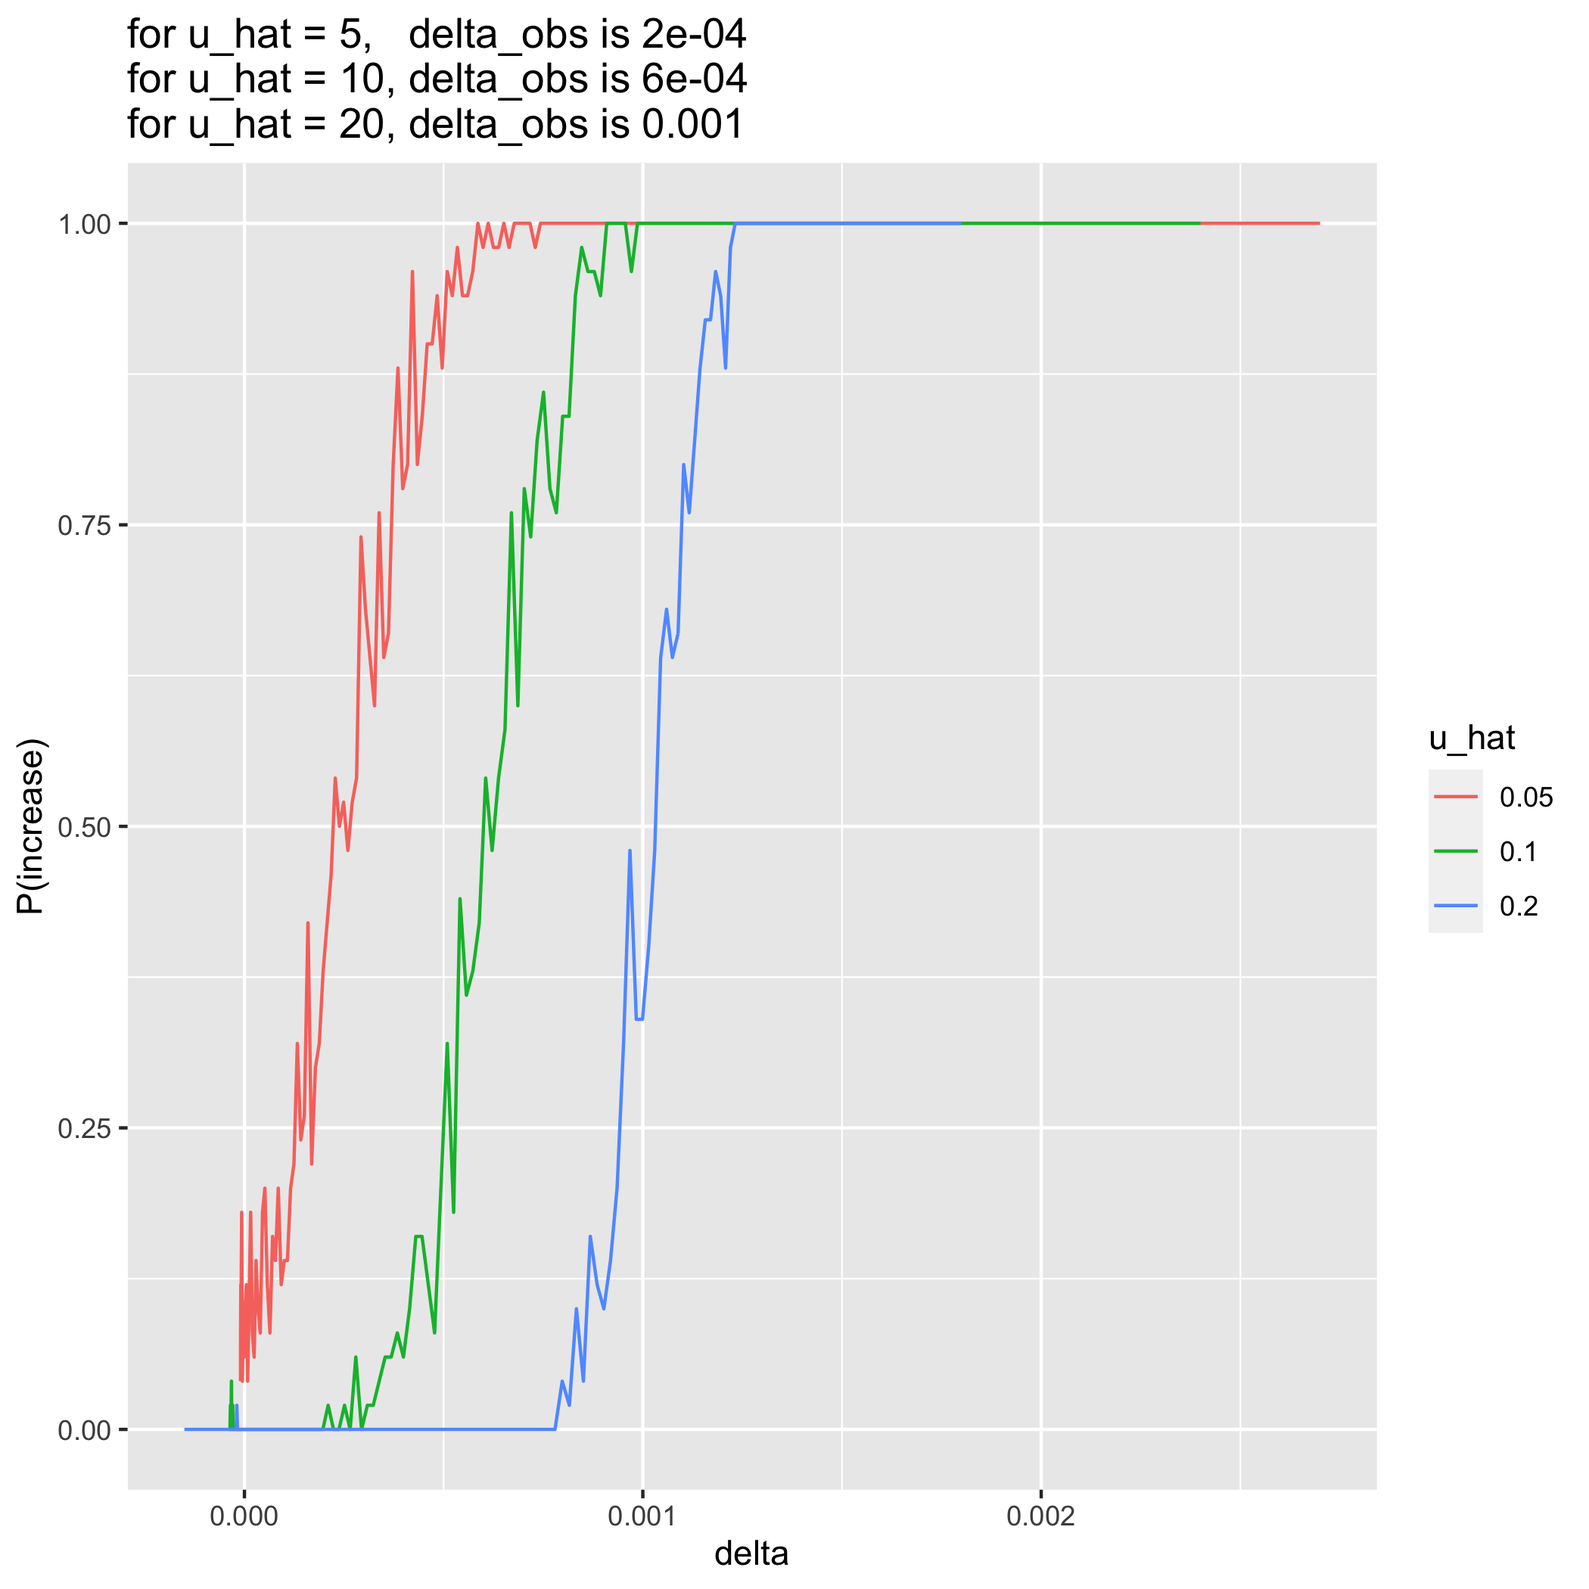
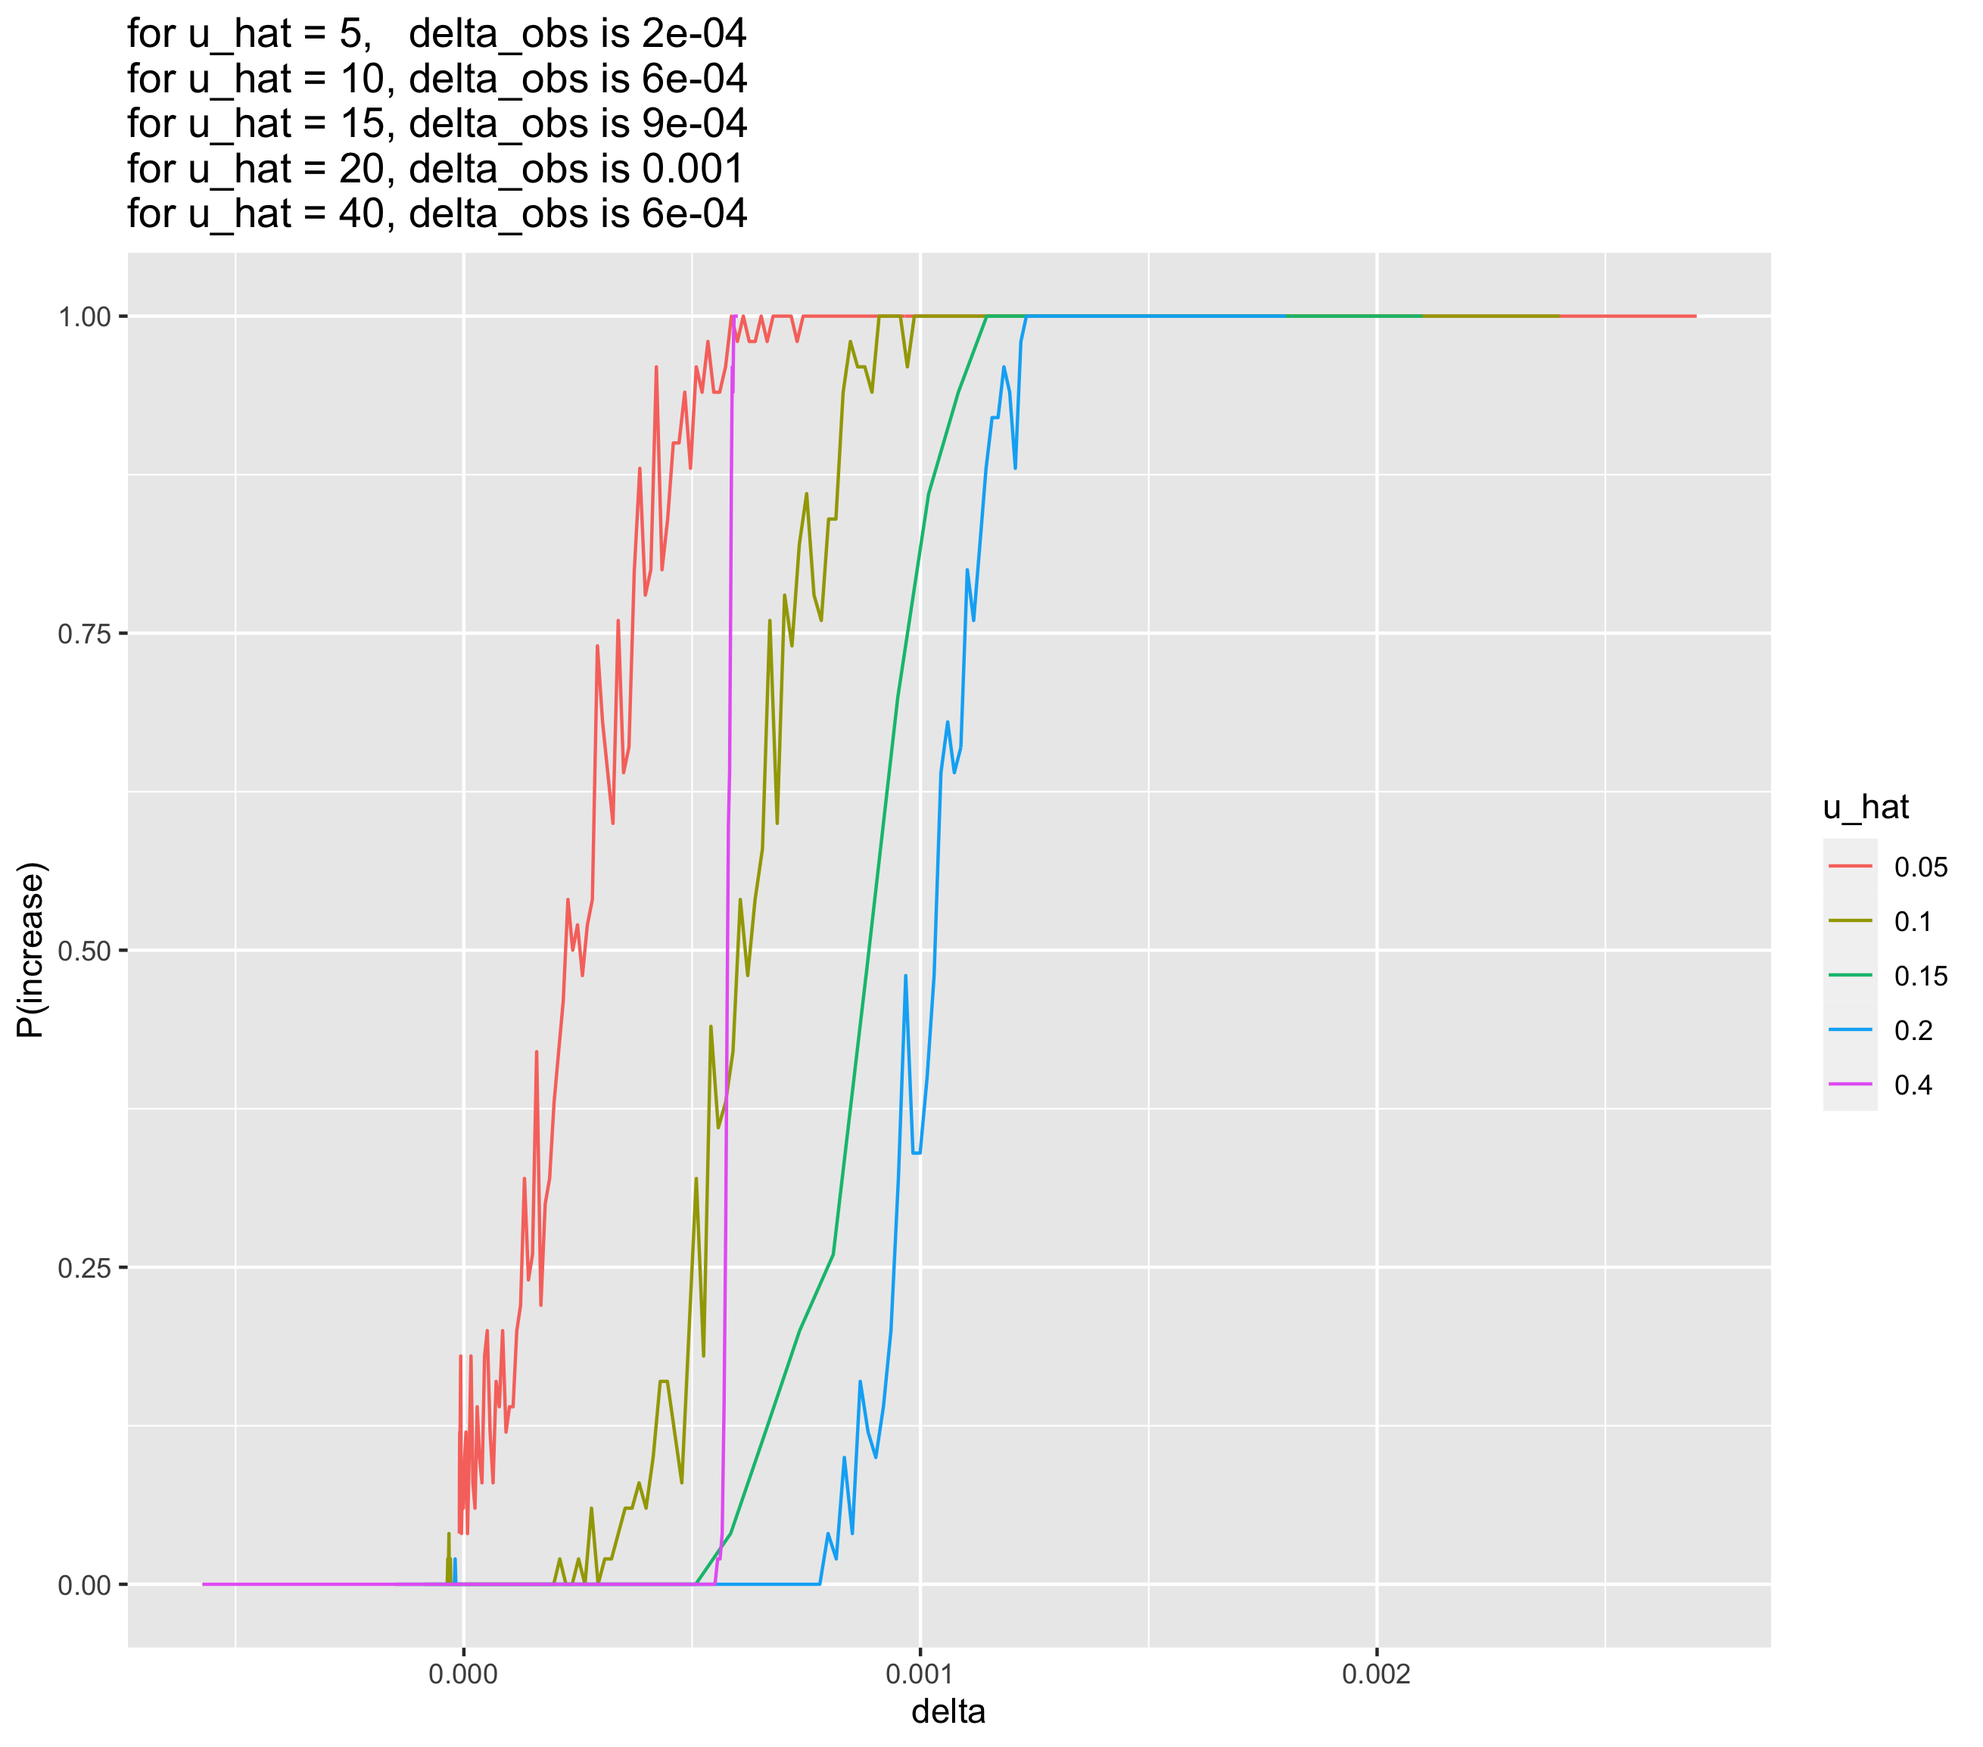
comparison

diff --git a/cluster/u_hat_comparisons/april12-uhat_comparison.md b/cluster/u_hat_comparisons/april12-uhat_comparison.md
@@ -1,4 +1,4 @@
-uhat=40, 20, 10, and 5% comparison after debugging + wt gens
+uhat=40, 20, 15, 10, and 5% comparison after debugging + wt gens
 ================
 Isabel Kim
 4/12/2022
@@ -7,84 +7,30 @@ Isabel Kim
 
 ``` r
 library(tidyverse)
-```
-
-    ## ── Attaching packages ─────────────────────────────────────── tidyverse 1.3.1 ──
-
-    ## ✓ ggplot2 3.3.5     ✓ purrr   0.3.4
-    ## ✓ tibble  3.1.6     ✓ dplyr   1.0.8
-    ## ✓ tidyr   1.2.0     ✓ stringr 1.4.0
-    ## ✓ readr   2.1.2     ✓ forcats 0.5.1
-
-    ## ── Conflicts ────────────────────────────────────────── tidyverse_conflicts() ──
-    ## x dplyr::filter() masks stats::filter()
-    ## x dplyr::lag()    masks stats::lag()
-
-``` r
 source("/Users/isabelkim/Desktop/year2/underdominance/reaction-diffusion/cluster/plotting_functions.R")
 
 summary_u40 = read_csv("/Users/isabelkim/Desktop/year2/underdominance/reaction-diffusion/cluster/u_hat=0.4_run/csvs/summary_april12_full_range_uhat40.csv")
-```
-
-    ## Rows: 150 Columns: 6
-
-    ## ── Column specification ────────────────────────────────────────────────────────
-    ## Delimiter: ","
-    ## dbl (6): a, sigma, k, u_hat, delta, p_increase
-    ## 
-    ## ℹ Use `spec()` to retrieve the full column specification for this data.
-    ## ℹ Specify the column types or set `show_col_types = FALSE` to quiet this message.
-
-``` r
 obs_vs_pred_u40 = get_a_pred_and_a_obs(summary_u40)
 
 summary_u20 = read_csv("/Users/isabelkim/Desktop/year2/underdominance/reaction-diffusion/cluster/u_hat=0.2_run/csvs/summary_april11_full_range_uhat20.csv")
-```
-
-    ## Rows: 150 Columns: 6
-    ## ── Column specification ────────────────────────────────────────────────────────
-    ## Delimiter: ","
-    ## dbl (6): a, sigma, k, u_hat, delta, p_increase
-    ## 
-    ## ℹ Use `spec()` to retrieve the full column specification for this data.
-    ## ℹ Specify the column types or set `show_col_types = FALSE` to quiet this message.
-
-``` r
 obs_vs_pred_u20 = get_a_pred_and_a_obs(summary_u20)
 
+summary_u15 = read_csv("/Users/isabelkim/Desktop/year2/underdominance/reaction-diffusion/cluster/u_hat=0.15_run/csvs/summary_april13_full_range_uhat15.csv")
+obs_vs_pred_u15 = get_a_pred_and_a_obs(summary_u15)
+# adjust
+obs_vs_pred_u15$a_pred = 0.006154545
+obs_vs_pred_u15$delta_pred = -0.000017000
+obs_vs_pred_u15$index_of_pred = 7
+
 summary_u10 = read_csv("/Users/isabelkim/Desktop/year2/underdominance/reaction-diffusion/cluster/u_hat=0.1_run/csvs/summary_april11_full_range_uhat10.csv")
-```
-
-    ## Rows: 150 Columns: 6
-    ## ── Column specification ────────────────────────────────────────────────────────
-    ## Delimiter: ","
-    ## dbl (6): a, sigma, k, u_hat, delta, p_increase
-    ## 
-    ## ℹ Use `spec()` to retrieve the full column specification for this data.
-    ## ℹ Specify the column types or set `show_col_types = FALSE` to quiet this message.
-
-``` r
 obs_vs_pred_u10 = get_a_pred_and_a_obs(summary_u10)
 
 summary_u5 = read_csv("/Users/isabelkim/Desktop/year2/underdominance/reaction-diffusion/cluster/u_hat=0.05_run/csvs/summary_april11_full_range_uhat5.csv")
-```
-
-    ## Rows: 150 Columns: 6
-    ## ── Column specification ────────────────────────────────────────────────────────
-    ## Delimiter: ","
-    ## dbl (6): a, sigma, k, u_hat, delta, p_increase
-    ## 
-    ## ℹ Use `spec()` to retrieve the full column specification for this data.
-    ## ℹ Specify the column types or set `show_col_types = FALSE` to quiet this message.
-
-``` r
-#summary_u5$p_increase[150] = 1.0
-#write_csv(x = summary_u5, file = "/Users/isabelkim/Desktop/year2/underdominance/reaction-diffusion/cluster/u_hat=0.05_run/csvs/summary_april11_full_range_uhat5.csv")
 obs_vs_pred_u5 = get_a_pred_and_a_obs(summary_u5)
 
-compiled = rbind(summary_u5,summary_u10, summary_u20,summary_u40)
+compiled = rbind(summary_u5,summary_u10,summary_u15,summary_u20,summary_u40)
 compiled$u_hat = as.character(compiled$u_hat)
-#View(compiled)
+View(compiled)
 ```
 
 ## Compare a vs P(increase) graphs
@@ -95,20 +41,27 @@ compiled_plot = ggplot(data = compiled, aes(x = a, y = p_increase, color = u_hat
   xlab("a") +
   ylab("P(increase)") +
   xlim(0, 0.1) +
-  geom_vline(xintercept = obs_vs_pred_u5$a_pred, color = "coral1") +
-  geom_vline(xintercept = obs_vs_pred_u10$a_pred, color = "green3") +
-  geom_vline(xintercept = obs_vs_pred_u20$a_pred, color = "turquoise") +
-  geom_vline(xintercept = obs_vs_pred_u40$a_pred, color = "purple") +
   labs(title = paste0("for u_hat = 5,   a_pred is ", round(obs_vs_pred_u5$a_pred, 4),
                       " and a_obs is ", round(obs_vs_pred_u5$a_obs, 4),
                       "\nfor u_hat = 10, a_pred is ", round(obs_vs_pred_u10$a_pred,4), 
-                      " and a_obs is ", round(obs_vs_pred_u10$a_obs, 4), 
+                      " and a_obs is ", round(obs_vs_pred_u10$a_obs, 4),
+                      "\nfor u_hat = 15, a_pred is ", round(obs_vs_pred_u15$a_pred,4),
+                      " and a_obs is ", round(obs_vs_pred_u15$a_obs, 4),
                       "\nfor u_hat = 20, a_pred is ", round(obs_vs_pred_u20$a_pred,4), 
                       " and a_obs is ", round(obs_vs_pred_u20$a_obs,4),
                       "\nfor u_hat = 40, a_pred is ",round(obs_vs_pred_u40$a_pred,4),
                       " and a_obs is ", round(obs_vs_pred_u40$a_obs,4)))
+#ggsave(filename = "/Users/isabelkim/Desktop/year2/underdominance/reaction-diffusion/cluster/u_hat_comparisons/april12-a_vs_p_uhat_5_10_15_20_40_no_lines.png",plot = compiled_plot)
 
-#ggsave(filename = "/Users/isabelkim/Desktop/year2/underdominance/reaction-diffusion/cluster/u_hat_comparisons/april12-a_vs_p_uhat_5_10_20_40.png",plot = compiled_plot)
+
+p = compiled_plot +
+  geom_vline(xintercept = obs_vs_pred_u5$a_pred, color = "coral1") +
+  geom_vline(xintercept = obs_vs_pred_u10$a_pred, color = "yellow4") +
+  geom_vline(xintercept = obs_vs_pred_u15$a_pred, color = "seagreen3") +
+  geom_vline(xintercept = obs_vs_pred_u20$a_pred, color = "deepskyblue2") +
+  geom_vline(xintercept = obs_vs_pred_u40$a_pred, color = "magenta2")
+
+#ggsave(filename = "/Users/isabelkim/Desktop/year2/underdominance/reaction-diffusion/cluster/u_hat_comparisons/april12-a_vs_p_uhat_5_10_15_20_40_with_lines.png",plot = p)
 ```
 
 ### just uhat=5, 10, and 20:
@@ -127,7 +80,22 @@ knitr::include_graphics("../../cluster/u_hat_comparisons/april12-a_vs_p_uhat_5_1
 
 ![](../../cluster/u_hat_comparisons/april12-a_vs_p_uhat_5_10_20_40.png)<!-- -->
 
-## Compare delta vs P(increase) graphs
+### uhat = 5, 10, 15, 20, 40 without any prediction lines
+
+``` r
+knitr::include_graphics("../../cluster/u_hat_comparisons/april12-a_vs_p_uhat_5_10_15_20_40_no_lines.png")
+```
+
+![](../../cluster/u_hat_comparisons/april12-a_vs_p_uhat_5_10_15_20_40_no_lines.png)<!-- -->
+### uhat = 5, 10, 15, 20, 40 *with* a_pred prediction lines
+
+``` r
+knitr::include_graphics("../../cluster/u_hat_comparisons/april12-a_vs_p_uhat_5_10_15_20_40_with_lines.png")
+```
+
+![](../../cluster/u_hat_comparisons/april12-a_vs_p_uhat_5_10_15_20_40_with_lines.png)<!-- -->
+
+## Compare delta vs P(increase) graphs for uhat = 5, 10, 15, 20, 40
 
 ``` r
 compiled_delta_v_p_increase = ggplot(data = compiled, aes(x = delta, y = p_increase, color = u_hat)) +
@@ -135,7 +103,8 @@ compiled_delta_v_p_increase = ggplot(data = compiled, aes(x = delta, y = p_incre
   xlab("delta") +
   ylab("P(increase)") +
   labs(title = paste0("for u_hat = 5,   delta_obs is ", round(obs_vs_pred_u5$delta_obs, 4),
-                      "\nfor u_hat = 10, delta_obs is ", round(obs_vs_pred_u10$delta_obs,4), 
+                      "\nfor u_hat = 10, delta_obs is ", round(obs_vs_pred_u10$delta_obs,4),
+                      "\nfor u_hat = 15, delta_obs is ", round(obs_vs_pred_u15$delta_obs,4),
                       "\nfor u_hat = 20, delta_obs is ", round(obs_vs_pred_u20$delta_obs,4),
                       "\nfor u_hat = 40, delta_obs is ",round(obs_vs_pred_u40$delta_obs,4)))
 
@@ -148,12 +117,17 @@ knitr::include_graphics("../../cluster/u_hat_comparisons/april12-delta_vs_p.png"
 
 ![](../../cluster/u_hat_comparisons/april12-delta_vs_p.png)<!-- -->
 
+The transition range for uhat=40 seems very sharp – probably didn’t have
+enough data in this region.
+
 ## What are the delta transition range boundaries (delta_min – below which P(increase)=0 and delta_max – above which P(increase)=1.0)?
 
 ``` r
 uhat5 = compiled %>% filter(u_hat=="0.05")
 uhat10 = compiled %>% filter(u_hat=="0.1")
+uhat15 = compiled %>% filter(u_hat == "0.15")
 uhat20 = compiled %>% filter(u_hat=="0.2")
+uhat40 = compiled %>% filter(u_hat == "0.4")
 
 # View each file
 ```
@@ -163,26 +137,45 @@ uhat20 = compiled %>% filter(u_hat=="0.2")
     around 0.000573111
 -   For uhat=10%, delta_min = around 0.000308603 (except for some
     outliers) and delta_max = 0.000893806
+-   For uhat=15%, delta_min = around 0.000584299 and delta_max = 0.00108
 -   For uhat=20%, delta_min=0.000797672 (besides the outlier at
     delta=-1.91e-5) and delta_max=0.001219991
+-   For uhat=40%, delta_min=0.000555901 and delta_max=0.000590642
 
 ## What are the a value transition range boundaries?
 
 -   For uhat=5%, a_min again doesn’t really exist but the minimum ran
     here is a_min=0.0001 a_max is around 0.01
 -   For uhat=10%, a_min is around 0.0094 and a_max is around 0.0165
+-   For uhat=15%, a_min is around 0.01523 and a_max is around 0.0223
 -   For uhat=20%, a_min is around 0.0216 and a_max is around 0.03
+-   For uhat=40%, a_min=0.06067 and a_max=0.07884
 
 ## Plot these
 
 ### Create new data frame
 
 ``` r
-uhats = c(0.05,0.1,0.2)
-a_mins = c(0.0001,0.0094,0.0216)
-a_maxs = c(0.01,0.0165,0.03)
-delta_mins = c(-(9.84e-06), 0.000308603,0.000797672)
-delta_maxs = c(0.000573111,0.000893806,0.001219991)
+library(tidyverse)
+```
+
+    ## ── Attaching packages ─────────────────────────────────────── tidyverse 1.3.1 ──
+
+    ## ✓ ggplot2 3.3.5     ✓ purrr   0.3.4
+    ## ✓ tibble  3.1.6     ✓ dplyr   1.0.8
+    ## ✓ tidyr   1.2.0     ✓ stringr 1.4.0
+    ## ✓ readr   2.1.2     ✓ forcats 0.5.1
+
+    ## ── Conflicts ────────────────────────────────────────── tidyverse_conflicts() ──
+    ## x dplyr::filter() masks stats::filter()
+    ## x dplyr::lag()    masks stats::lag()
+
+``` r
+uhats = c(0.05,0.1,0.15 ,0.2, 0.4)
+a_mins = c(0.0001,0.0094,0.01523,0.0216,0.0607)
+a_maxs = c(0.01,0.0165,0.0223,0.03,0.07884)
+delta_mins = c(-(9.84e-06), 0.000308603,0.000584299,0.000797672,0.000555901)
+delta_maxs = c(0.000573111,0.000893806,0.00108,0.001219991,0.000590642)
 
 transitions = tibble(uhat = uhats,
                      a_lower = a_mins,
@@ -198,7 +191,7 @@ u_vs_a_upper = ggplot(transitions, aes(x=uhat,y=a_upper)) + geom_point() + geom_
 u_vs_a_upper
 ```
 
-![](april12-uhat_comparison_files/figure-gfm/unnamed-chunk-9-1.png)<!-- -->
+![](april12-uhat_comparison_files/figure-gfm/unnamed-chunk-11-1.png)<!-- -->
 
 -   *linear* relationship between uhat and a_upper
     -   If uhat goes up by x, then the a_value should go up by mx
@@ -214,24 +207,24 @@ summary(mod)
     ## lm(formula = a_upper ~ uhat, data = transitions)
     ## 
     ## Residuals:
-    ##          1          2          3 
-    ##  7.143e-05 -1.071e-04  3.571e-05 
+    ##         1         2         3         4         5 
+    ##  0.004571  0.001033 -0.003205 -0.005543  0.003144 
     ## 
     ## Coefficients:
     ##              Estimate Std. Error t value Pr(>|t|)   
-    ## (Intercept) 0.0032500  0.0001637   19.86   0.0320 * 
-    ## uhat        0.1335714  0.0012372  107.97   0.0059 **
+    ## (Intercept) -0.004610   0.003954  -1.166  0.32795   
+    ## uhat         0.200764   0.018239  11.008  0.00161 **
     ## ---
     ## Signif. codes:  0 '***' 0.001 '**' 0.01 '*' 0.05 '.' 0.1 ' ' 1
     ## 
-    ## Residual standard error: 0.0001336 on 1 degrees of freedom
-    ## Multiple R-squared:  0.9999, Adjusted R-squared:  0.9998 
-    ## F-statistic: 1.166e+04 on 1 and 1 DF,  p-value: 0.005896
+    ## Residual standard error: 0.004928 on 3 degrees of freedom
+    ## Multiple R-squared:  0.9758, Adjusted R-squared:  0.9678 
+    ## F-statistic: 121.2 on 1 and 3 DF,  p-value: 0.001606
 
-a_upper = 0.0032500 + 0.1335714(uhat)
+a_upper = -0.004610 + 0.200764(uhat) ?
 
 ``` r
-predicted_a_upper = 0.0032500 + (0.1335714*transitions$uhat)
+predicted_a_upper = -0.004610 + (0.200764*transitions$uhat)
 
 transitions_edit = transitions %>% add_column(predicted_a_upper)
 
@@ -240,9 +233,9 @@ plot = ggplot(transitions_edit) + geom_point(aes(x=uhat,y=a_upper),color="black"
 plot
 ```
 
-![](april12-uhat_comparison_files/figure-gfm/unnamed-chunk-11-1.png)<!-- -->
-\* Wonder if we can use this equation. + No, it only involves SLiM
-results, not the equation at all.
+![](april12-uhat_comparison_files/figure-gfm/unnamed-chunk-13-1.png)<!-- -->
+\*But this equation only involves SLiM results, not the delta or AUC
+equation at all.
 
 ### uhat vs the lower value for a (below which P(increase) is always 100%)
 
@@ -252,8 +245,8 @@ u_vs_a_lower = ggplot(transitions_edit, aes(x=uhat,y=a_lower)) + geom_point() + 
 u_vs_a_lower
 ```
 
-![](april12-uhat_comparison_files/figure-gfm/unnamed-chunk-12-1.png)<!-- -->
-Not as linear, but there’s probably some error in the a_min for uhat=5%.
+![](april12-uhat_comparison_files/figure-gfm/unnamed-chunk-14-1.png)<!-- -->
+Not very linear
 
 ### uhat vs delta_upper
 
@@ -263,30 +256,5 @@ u_vs_delta_upper = ggplot(transitions_edit, aes(x=uhat,y=delta_upper)) + geom_po
 u_vs_delta_upper
 ```
 
-![](april12-uhat_comparison_files/figure-gfm/unnamed-chunk-13-1.png)<!-- -->
-Also not very informative
-
-But delta_upper should be intrinsically linked to a_upper.
-
-``` r
-source("/Users/isabelkim/Desktop/year2/underdominance/reaction-diffusion/scripts/auc-equations.R")
-
-delta_upper_should_be = rep(-1,3)
-for (i in 1:3){
-  delta_upper_should_be[i] = factored_delta(a=transitions_edit$a_upper[i],
-                                            b = 1,
-                                            sigma=0.01,
-                                            k=0.2,
-                                            uhat = transitions_edit$uhat[i])
-}
-
-transitions_edit2 = transitions_edit %>% add_column(delta_upper_should_be=delta_upper_should_be)
-
-u_vs_delta_upper_edit = ggplot(transitions_edit2, aes(x=uhat,y=delta_upper_should_be)) + geom_point() + geom_line()
-
-
-u_vs_delta_upper_edit
-```
-
-![](april12-uhat_comparison_files/figure-gfm/unnamed-chunk-14-1.png)<!-- -->
-\* Would be useful to run uhat=15%. \* Still not linear?
+![](april12-uhat_comparison_files/figure-gfm/unnamed-chunk-15-1.png)<!-- -->
+Weird that the slope becomes negative between uhat=20% and uhat=40%?

diff --git a/cluster/u_hat=0.15_run/april13-uhat15_wt_gens_results.md b/cluster/u_hat=0.15_run/april13-uhat15_wt_gens_results.md
@@ -26,6 +26,11 @@ knitr::include_graphics(paste0(dir,fig))
 
 ![](../../cluster/u_hat=0.15_run/figures/april13_full_a_vs_p_increase_uhat15.png)<!-- -->
 
+-   a_predicted = 0.006154545
+-   delta_predicted = -0.000017000
+-   a_observed = 0.01927273
+-   delta_observed = 0.000880852
+
 ### Zoomed in – a from 0 to 0.1
 
 ``` r
